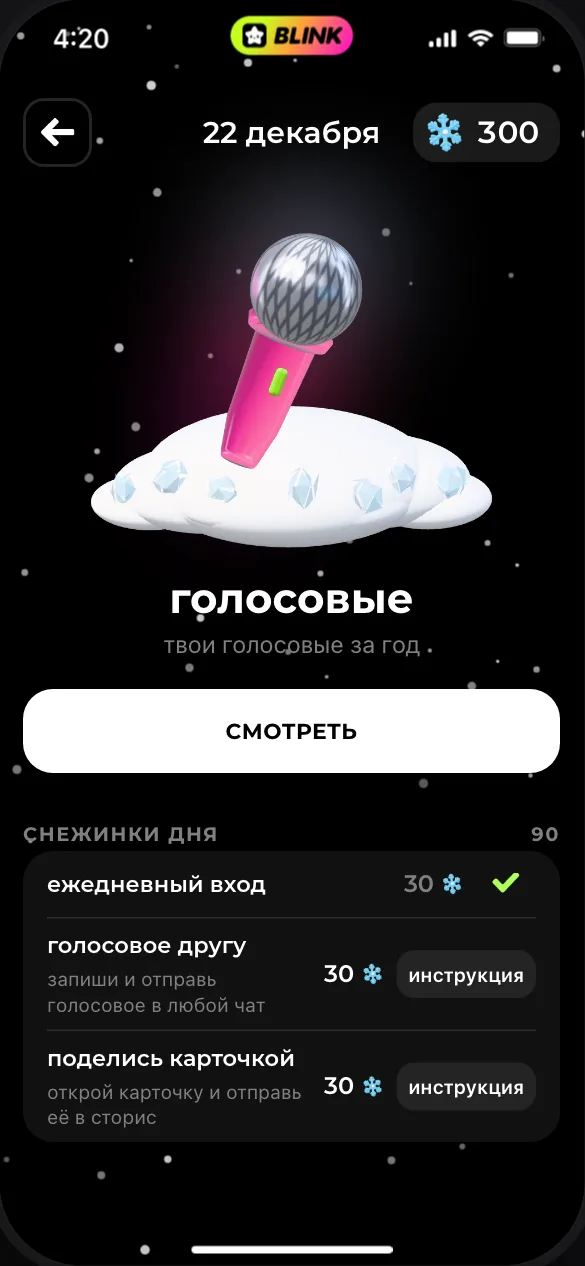
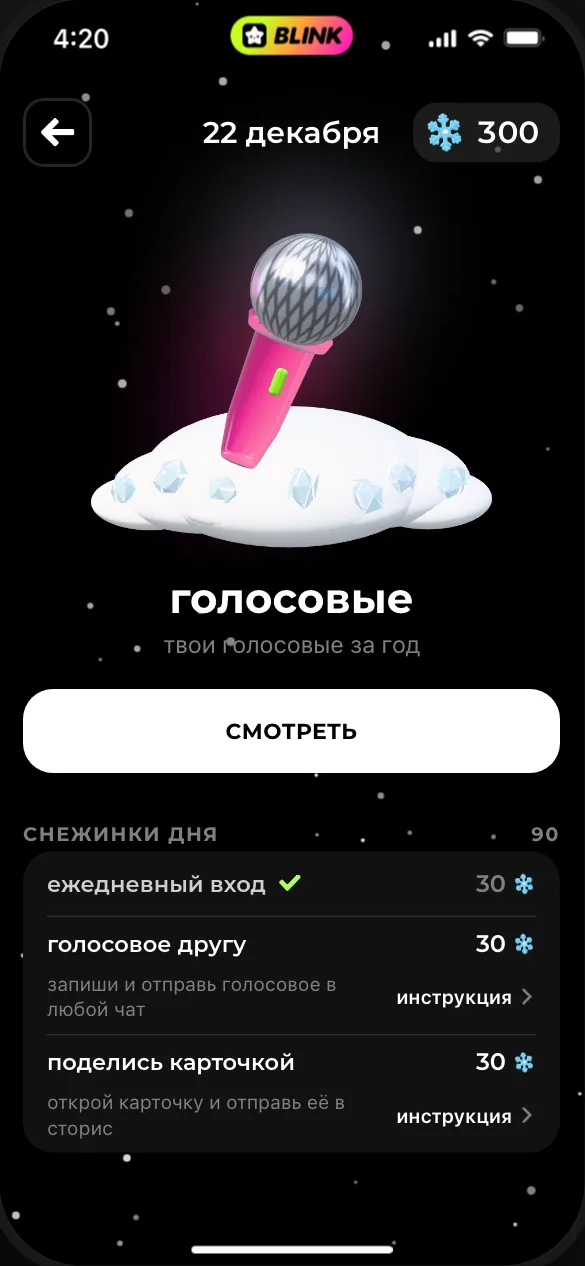
Balance New Year task rows and instruction links

diff --git a/features/advent/advent.css b/features/advent/advent.css
@@ -572,85 +572,72 @@
   margin: var(--space-32) 0 var(--space-4);
 }
 
-/* Задания: название и способ выполнения слева, награда и инструкция/статус справа. */
+/* Задание: название и награда на одной оси, описание и инструкция — ниже. */
 .av-tasks {
-  display: flex;
-  flex-direction: column;
-  list-style: none;
-  padding: 0 var(--space-16);
-  border-radius: var(--radius-20);
-  background: var(--color-surface-card);
+  display:flex;
+  flex-direction:column;
+  list-style:none;
+  padding:0 var(--space-16);
+  border-radius:var(--radius-20);
+  background:var(--color-surface-card);
 }
-
 .av-task {
-  display: grid;
-  grid-template-columns: minmax(0, 1fr) auto;
-  align-items: center;
-  gap: var(--space-12);
-  min-height: 68px;
-  padding: var(--space-8) 0;
-  border-bottom: 1px solid var(--color-divider);
+  display:flex;
+  flex-direction:column;
+  justify-content:center;
+  gap:var(--space-8);
+  min-height:68px;
+  padding:var(--space-8) 0;
+  border-bottom:1px solid var(--color-divider);
 }
-.av-task:last-child {border-bottom: 0;}
-
-.av-task__body {
-  display: flex;
-  flex: 1;
-  flex-direction: column;
-  gap: var(--space-4);
-  min-width: 0;
+.av-task:last-child {border-bottom:0;}
+.av-task__header,.av-task__body {
+  display:flex;
+  align-items:center;
+  justify-content:space-between;
+  gap:var(--space-12);
+  min-width:0;
 }
-
-.av-task__text {
-  font: var(--type-friend-name);
+.av-task__heading {
+  display:flex;
+  align-items:center;
+  gap:var(--space-8);
+  min-width:0;
 }
-.av-task__description {font:var(--type-note);color:var(--color-text-muted);}
-.av-task__aside {display:flex;align-items:center;gap:var(--space-8);}
-
+.av-task__text {font:var(--type-friend-name);}
+.av-task__description {flex:1;min-width:0;font:var(--type-note);color:var(--color-text-muted);}
 .av-task__reward {
-  display: inline-flex;
-  align-items: center;
-  gap: var(--space-4);
-  font: var(--type-counter);
-  color: var(--color-text);
-  white-space: nowrap;
+  display:inline-flex;
+  flex-shrink:0;
+  align-items:center;
+  gap:var(--space-4);
+  font:var(--type-counter);
+  color:var(--color-text);
+  white-space:nowrap;
 }
-
-.av-task__flake {
-  width: 16px;
-  height: 16px;
-}
-
+.av-task__flake {width:16px;height:16px;}
 .av-task__info {
-  --press-scale: var(--press-scale-button);
-  display:grid;
-  place-items:center;
-  width:auto;
-  min-width:76px;
+  --press-scale:var(--press-scale-button);
+  position:relative;
+  display:inline-flex;
+  flex-shrink:0;
+  align-items:center;
+  justify-content:flex-end;
+  gap:var(--space-4);
   height:32px;
-  padding:0 var(--space-8);
+  padding:0;
+  background:transparent;
+  color:var(--color-text);
   font:var(--type-map-chip-strong);
-  border-radius: var(--radius-12);
-  background: var(--color-surface-raised);
-  color: var(--color-text);
 }
-.av-task__info .icon {--icon-size:20px;}
-
-.av-task__state {
-  display:grid;
-  place-items:center;
-  width:40px;
-  height:40px;
-  color:var(--color-selected);
-}
-
-.av-task__state .icon {
-  --icon-size: 20px;
-}
-.av-task.is-done .av-task__reward {color:var(--color-text-muted);}
+/* Визуальная высота 32, область касания 44 pt. */
+.av-task__info::after {content:"";position:absolute;inset:calc(-1 * var(--space-6)) 0;}
+.av-task__info .icon {--icon-size:12px;color:var(--color-text-muted);}
+.av-task__state {display:inline-flex;flex-shrink:0;color:var(--color-selected);}
+.av-task__state .icon {--icon-size:16px;}
 .av-task.is-done {min-height:44px;}
-.av-task.is-done .av-task__description {display:none;}
-.av-task.is-done .av-task__state {height:28px;}
+.av-task.is-done .av-task__text {color:var(--color-text-secondary);}
+.av-task.is-done .av-task__reward {color:var(--color-text-muted);}
 .av-task__expired {font:var(--type-compact);color:var(--color-text-muted);max-width:40px;text-align:center;}
 .av-task-help__text {margin-top:var(--space-16);font:var(--type-bio);color:var(--color-text-secondary);}
 .av-task-help__reward {display:flex;align-items:center;gap:var(--space-12);margin-top:var(--space-24);font:var(--type-distance);color:var(--color-text-muted);}

diff --git a/features/advent/advent.js b/features/advent/advent.js
@@ -477,16 +477,18 @@
   function taskRow(r, state, flake, i) {
     const done = state === "claimed";
     const available = i === S.today && state !== "missed";
-    const action = done
+    const status = done
       ? '<span class="av-task__state" role="img" aria-label="выполнено"><i class="icon icon--check" aria-hidden="true"></i></span>'
-      : available ? `<button class="av-task__info pressable" type="button" data-task-help="${r.key}" data-task-day="${i}" aria-label="инструкция: ${r.title}">инструкция</button>`
+      : "";
+    const action = available
+      ? `<button class="av-task__info pressable" type="button" data-task-help="${r.key}" data-task-day="${i}" aria-label="инструкция: ${r.title}">инструкция<i class="icon icon--chevron" aria-hidden="true"></i></button>`
       : '<span class="av-task__expired">день прошёл</span>';
     return `<li class="av-task${done ? " is-done" : ""}" data-row="${r.key}">
-      <div class="av-task__body">
-        <span class="av-task__text">${r.title}</span>
-        <span class="av-task__description">${r.description}</span>
+      <div class="av-task__header">
+        <span class="av-task__heading"><span class="av-task__text">${r.title}</span>${status}</span>
+        <span class="av-task__reward"><span>${r.reward}</span>${flake}</span>
       </div>
-      <div class="av-task__aside"><span class="av-task__reward"><span>${r.reward}</span>${flake}</span>${action}</div>
+      ${done ? "" : `<div class="av-task__body"><span class="av-task__description">${r.description}</span>${action}</div>`}
     </li>`;
   }
 

diff --git a/tools/smoke_advent_wheel.py b/tools/smoke_advent_wheel.py
@@ -16,9 +16,11 @@ def check_feature(browser,port,errors,check):
     check('collection contains 18 unique prizes',js('AV.D.POOL.length')==18 and js('new Set(AV.D.POOL.map(p=>p.id)).size')==18)
     check('miniature uses eight eligible prizes without preparing a spin',page.locator('#home-wheel-preview .nw-sector').count()==8 and js('AV_GAME.state().offers')==[] and js('AV.S.taken')==[])
     check('tasks show a title, description and reward without decorative illustrations',home.locator('.av-task').count()==3 and home.locator('.av-task__reward').all_text_contents()==['30','30','30'] and home.locator('.av-task__description').evaluate_all('els=>els.every(e=>e.textContent.trim())') and not home.locator('.av-task__art,.av-task__obj').count() and home.locator('.av-task img').evaluate_all('els=>els.every(e=>e.classList.contains("av-task__flake"))'))
-    check('tasks offer textual instructions and no collection or completion buttons',not home.locator('[data-claim],[data-do]').count() and home.locator('.av-task__info').all_text_contents()==['инструкция','инструкция'] and not home.locator('.av-task__info .icon').count() and home.locator('[data-row="login"] .av-task__state').get_attribute('aria-label')=='выполнено')
+    check('tasks offer textual instructions and no collection or completion buttons',not home.locator('[data-claim],[data-do]').count() and home.locator('.av-task__info').all_text_contents()==['инструкция','инструкция'] and not home.locator('.av-task__info .icon--about').count() and home.locator('[data-row="login"] .av-task__state').get_attribute('aria-label')=='выполнено')
     check('single sentence descriptions do not end in a period',home.locator('.av-task__description').evaluate_all('els=>els.every(e=>!e.textContent.endsWith("."))') and js('AV.D.DAYS.every(d=>!d.task.description.endsWith(".")&&((d.task.instruction.match(/[.!?](?:\\s|$)/g)||[]).length>1||!d.task.instruction.endsWith(".")))'))
     check('tasks and calendar section titles use the same typography',js('() => {const a=getComputedStyle(document.querySelector("#today-tasks-title")),b=getComputedStyle(document.querySelector("#calendar-title"));return a.fontSize===b.fontSize&&a.fontWeight===b.fontWeight&&a.fontFamily===b.fontFamily;}'))
+    check('rewards align on one right edge in completed and available tasks',home.locator('.av-task__reward').evaluate_all('els=>Math.max(...els.map(e=>e.getBoundingClientRect().right))-Math.min(...els.map(e=>e.getBoundingClientRect().right))<1'))
+    check('text instruction has a full touch target without a filled pill',home.locator('.av-task__info').evaluate_all('els=>els.every(e=>{const r=e.getBoundingClientRect(),s=getComputedStyle(e);return s.backgroundColor==="rgba(0, 0, 0, 0)"&&document.elementFromPoint(r.x+r.width/2,r.top-4)?.closest("button")===e&&document.elementFromPoint(r.x+r.width/2,r.bottom+4)?.closest("button")===e;})'))
     check('every task reward puts the snowflake after its number',home.locator('.av-task__reward').evaluate_all('els=>els.every(e=>e.firstElementChild.tagName==="SPAN"&&e.firstElementChild.nextElementSibling.tagName==="IMG"&&e.firstElementChild.getBoundingClientRect().right<=e.querySelector("img").getBoundingClientRect().left)'))
     check('compact prize entries retain filled surfaces and navigation affordance',home.locator('.av-entry').evaluate_all('els=>els.every(e=>{const s=getComputedStyle(e);return s.backgroundColor==="rgb(26, 26, 26)"&&e.clientHeight>=60&&e.querySelector(".icon--chevron");})') and page.locator('.av-entries').evaluate('e=>e.getBoundingClientRect().bottom<innerHeight&&e.getBoundingClientRect().bottom<document.querySelector("#home-tasks").getBoundingClientRect().top'))
     page.locator('.av-today__open').click();page.wait_for_timeout(500)
@@ -61,7 +63,7 @@ def check_feature(browser,port,errors,check):
         for day in range(29):
             js(f'AV.resetTo({day})')
             illustrations.add(tuple(page.locator('.av-today__art img').evaluate_all('els=>els.map(e=>e.getAttribute("src"))')))
-            all_fit=all_fit and js("() => {const hero=document.querySelector('#home-today'),title=hero.querySelector('h2'),button=hero.querySelector('.av-today__open'),r=button.getBoundingClientRect();return title.scrollWidth<=title.clientWidth+1&&r.right<=innerWidth&&r.bottom<innerHeight&&document.querySelector('#home-scroll').scrollTop<1&&document.querySelector('.av-entries').getBoundingClientRect().bottom<innerHeight&&[...document.querySelectorAll('#home-tasks .av-task')].every(e=>{const b=e.getBoundingClientRect(),t=e.querySelector('.av-task__body'),a=e.querySelector('.av-task__aside');return b.right<=innerWidth&&t.scrollWidth<=t.clientWidth+1&&t.getBoundingClientRect().right<=a.getBoundingClientRect().left-4&&e.querySelector('.av-task__reward').getBoundingClientRect().left>t.getBoundingClientRect().left;});}")
+            all_fit=all_fit and js("() => {\n const hero=document.querySelector('#home-today'),title=hero.querySelector('h2'),button=hero.querySelector('.av-today__open'),r=button.getBoundingClientRect();\n return title.scrollWidth<=title.clientWidth+1&&r.right<=innerWidth&&r.bottom<innerHeight&&document.querySelector('#home-scroll').scrollTop<1&&document.querySelector('.av-entries').getBoundingClientRect().bottom<innerHeight&&[...document.querySelectorAll('#home-tasks .av-task')].every(e=>{\n  const b=e.getBoundingClientRect(),t=e.querySelector('.av-task__text'),reward=e.querySelector('.av-task__reward'),body=e.querySelector('.av-task__body'),tr=t.getBoundingClientRect(),rr=reward.getBoundingClientRect();\n  return b.right<=innerWidth&&t.scrollWidth<=t.clientWidth+1&&tr.height<=21&&tr.right<=rr.left-4&&Math.abs((tr.top+tr.bottom-rr.top-rr.bottom)/2)<3&&(!body||(()=>{\n   const d=e.querySelector('.av-task__description').getBoundingClientRect(),a=body.querySelector('button,.av-task__expired').getBoundingClientRect();return d.top>=tr.bottom&&d.right<=a.left-8&&a.right<=b.right;\n  })());\n });\n}")
         check(f'all 29 daily illustrations differ with readable tasks and visible prize actions at {width}',all_fit and len(illustrations)==29)
         js('AV.resetTo(0)')
         check(f'calendar begins in the first viewport at {width}',page.locator('.av-cell__art').first.evaluate('e=>e.getBoundingClientRect().top<innerHeight-24') and page.locator('#calendar-title').evaluate('e=>e.getBoundingClientRect().bottom<innerHeight'))

diff --git a/features/advent/NEW-YEAR.md b/features/advent/NEW-YEAR.md
@@ -8,7 +8,7 @@
 
 Шапка состоит из текста и иллюстрации на одной строке, ниже общая кнопка. Две заполненные кнопки ведут в колесо и розыгрыш. Компактные задания собраны в одну панель, заголовки «задания на сегодня» и «все дни» используют одну роль `--type-section-title`. На 375 × 667 видна верхняя часть первого ряда календаря; на 390 × 844 виден первый ряд. Предметы календаря 104 pt, даты 16 pt под ними. Доступная клетка открывает отдельный экран дня. Будущие дни остаются во льду. Иней, падающий снег и ледяные кубики сохранены.
 
-Название задания и краткое описание действия стоят слева, сумма со снежинкой и текстовая кнопка «инструкция» — справа. Выполненные строки компактнее и отмечены галочкой. Кнопок получения награды нет. Снежинка следует за числом, кроме баланса в шапке.
+Строка задания состоит из двух уровней: сверху название и награда на одной оси, снизу краткое описание и текстовый переход «инструкция» с системным шевроном. Суммы выровнены по одной правой границе, включая выполненные задания. Галочка стоит рядом с названием выполненного задания. Плашки у инструкции нет; визуальная высота действия 32 pt, область касания расширена до 44 pt. Выполненные строки компактнее и отмечены галочкой. Кнопок получения награды нет. Снежинка следует за числом, кроме баланса в шапке.
 
 **Пунктуация интерфейса:** у одиночной фразы или одного предложения нет точки в конце. Если текст состоит из двух и более предложений, предложения оформляются с точками. Это относится и к кратким описаниям, и к инструкциям заданий.
 
@@ -41,3 +41,7 @@
 ## Проверка
 
 `python3 tools/smoke.py advent` — целевая проверка из папки `prototype`; перед публикацией запускается полный `python3 tools/smoke.py`. Проверяются просмотренный / новый факт, раскрытие печенья, автоматические награды, пунктуация, фактические границы текста и календаря, 29 дневных иллюстраций, замена и уникальность призов на всём цикле, атомарные списания, раскладка розыгрыша и размеры 375/390/430. Галерея `states.html` содержит отдельные состояния главной до и после просмотра.
+
+## Раскладка заданий — уточнение 03.11
+
+Сравнены правый столбец с наградой над кнопкой, две строки с общей шапкой и отдельная строка действия под описанием. Выбрана общая шапка и компактный текстовый переход: длинный заголовок не конкурирует с инструкцией, награда читается рядом с названием, описание и действие имеют собственную строку. Цвета и типографические роли сохранены из системы. На 375 pt верх календаря начинается на 601 pt (ранее 616 pt). Все названия текущих 29 дней помещаются в одну строку на ширинах 375/390/430; описания не обрезаются. Снимки @2x просмотрены; внутренняя оценка композиции — 8/10. Скриншот пользователя трактуется как пример проблемы, геометрия старой строки намеренно не повторяется.
